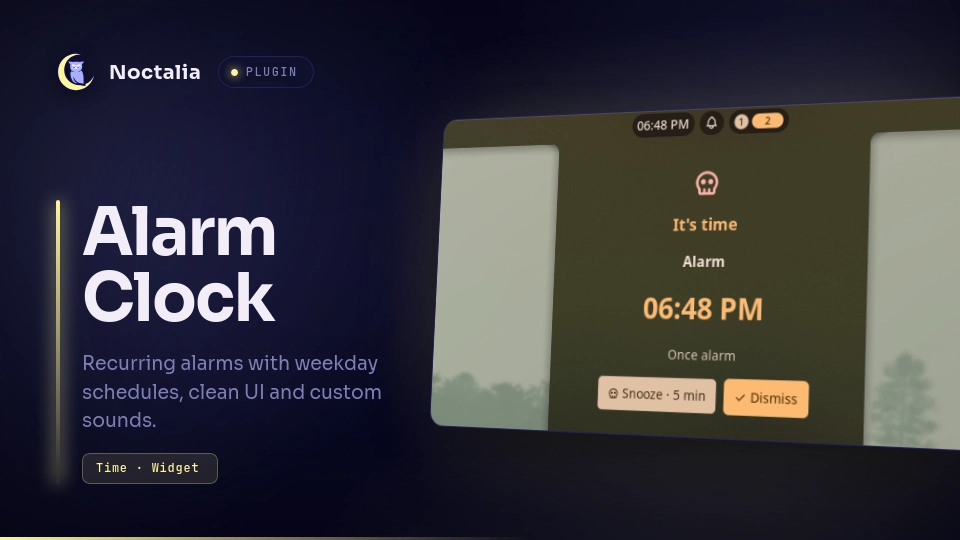
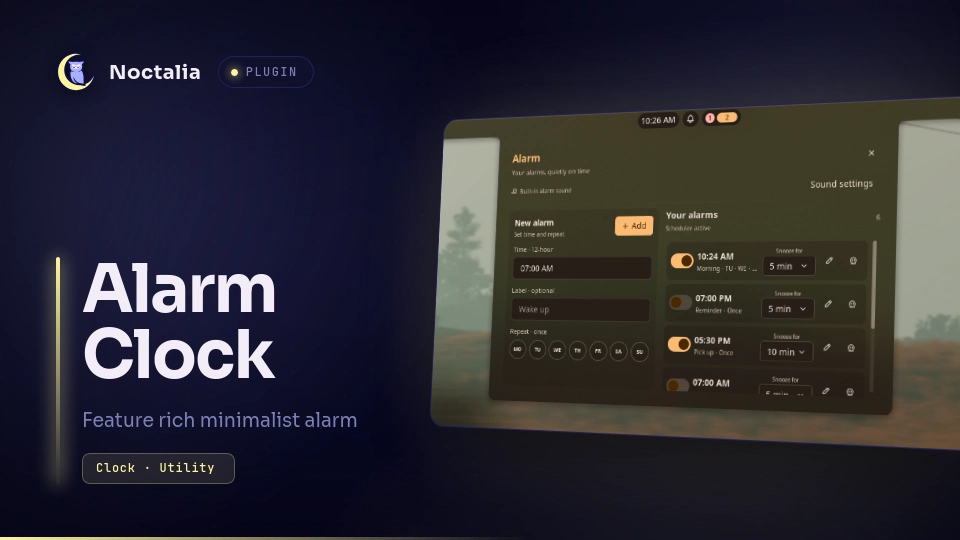
Polish alarm UI and add screenshots

diff --git a/alarm-clock/README.md b/alarm-clock/README.md
@@ -4,6 +4,16 @@ Alarm Clock is a fixed-time alarm manager for Noctalia. Create one-time or recur
 
 ![Alarm Clock ringing panel](screenshot.png)
 
+## Screenshots
+
+### Alarm editor
+
+![Alarm Clock editor showing alarm creation and saved alarms](screenshots/alarm-editor.png)
+
+### Ringing window
+
+![Alarm Clock ringing popup with snooze and dismiss controls](screenshots/ringing-window.png)
+
 ## Plugin
 
 | Field | Value |
@@ -15,7 +25,7 @@ Alarm Clock focuses on recurring wall-clock schedules and per-alarm settings. Th
 
 ## Requirements
 
-For interruptible custom audio playback, install **at least one** of these commands and make it available on `PATH`:
+For playing custom track for alarm, install **at least one** of these commands and make it available on `PATH`. This is only necessary if you are planning to play long custom music track as alarm tone and is not needed for built-in default alarm ring tone:
 
 - `mpv` (recommended)
 - `ffplay` (provided by `ffmpeg`)
@@ -55,6 +65,7 @@ noctalia msg panel-toggle spont-427/alarm-clock:ringing
 | --- | --- | --- | --- |
 | `custom_sound` | `file` | `""` | Optional audio file used for all alarms. An empty value selects the bundled tone. Supported extensions are WAV, FLAC, Ogg, Opus, MP3, and AIFF. Custom playback requires `mpv` or `ffplay`. |
 | `sound_enabled` | `bool` | `true` | Enables or disables alarm audio. The ringing panel and notifications still appear when audio is disabled. |
+| `opaque_ringer` | `bool` | `false` | Use a solid background for the ringing window instead of the default translucent appearance. |
 
 ## Notes
 
